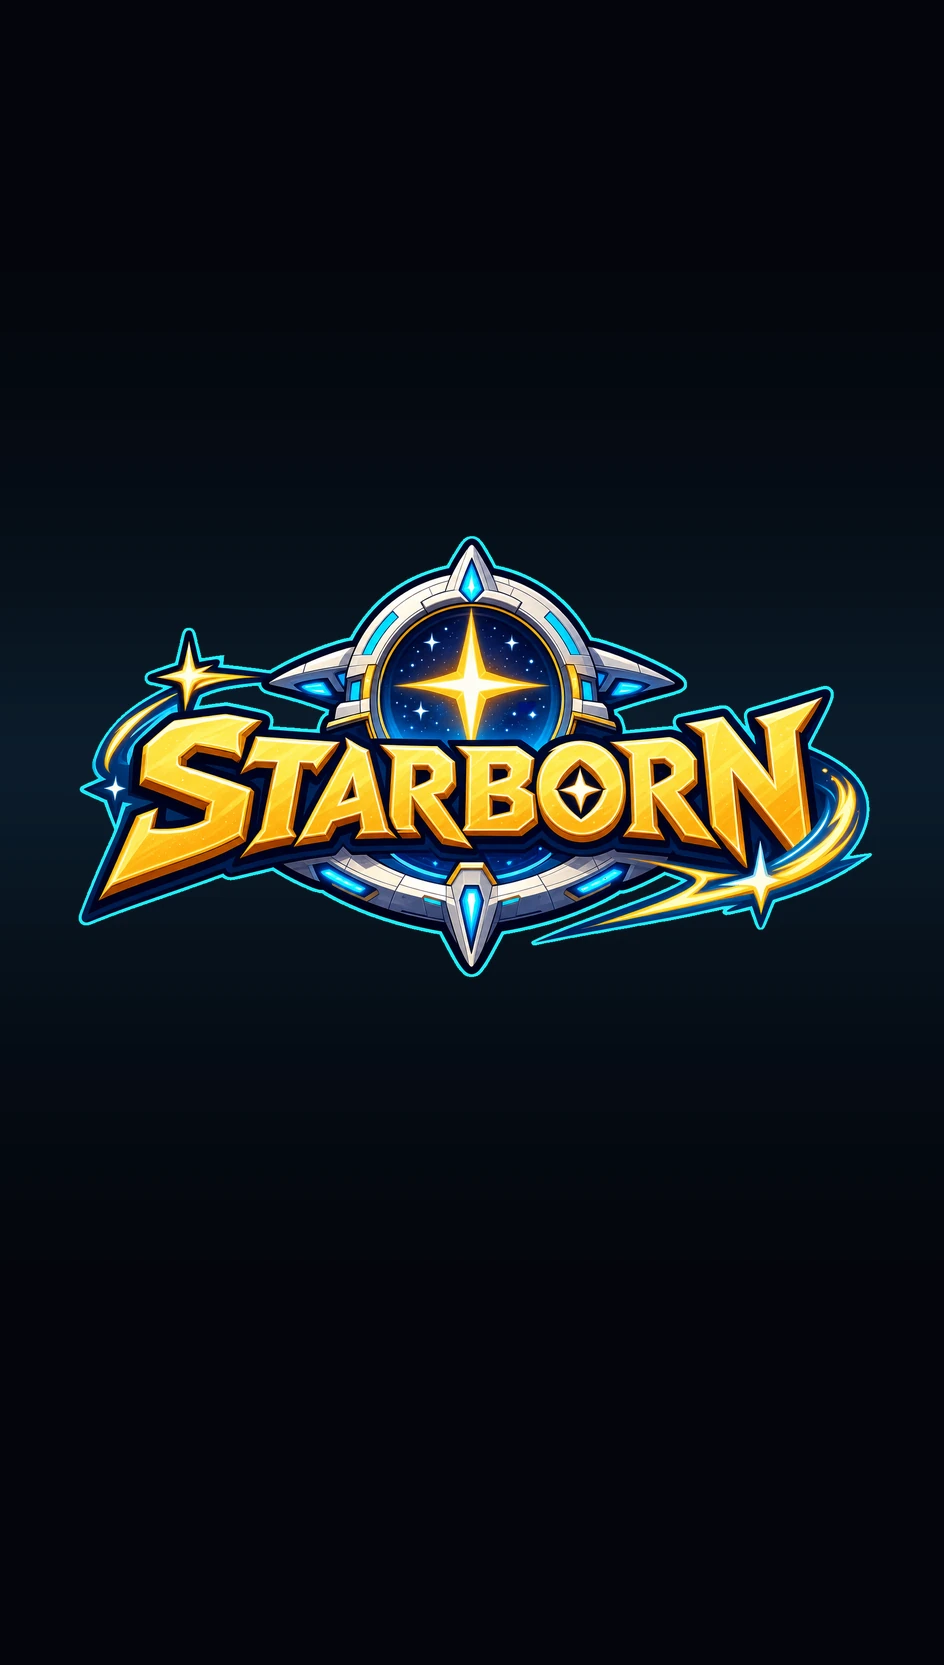
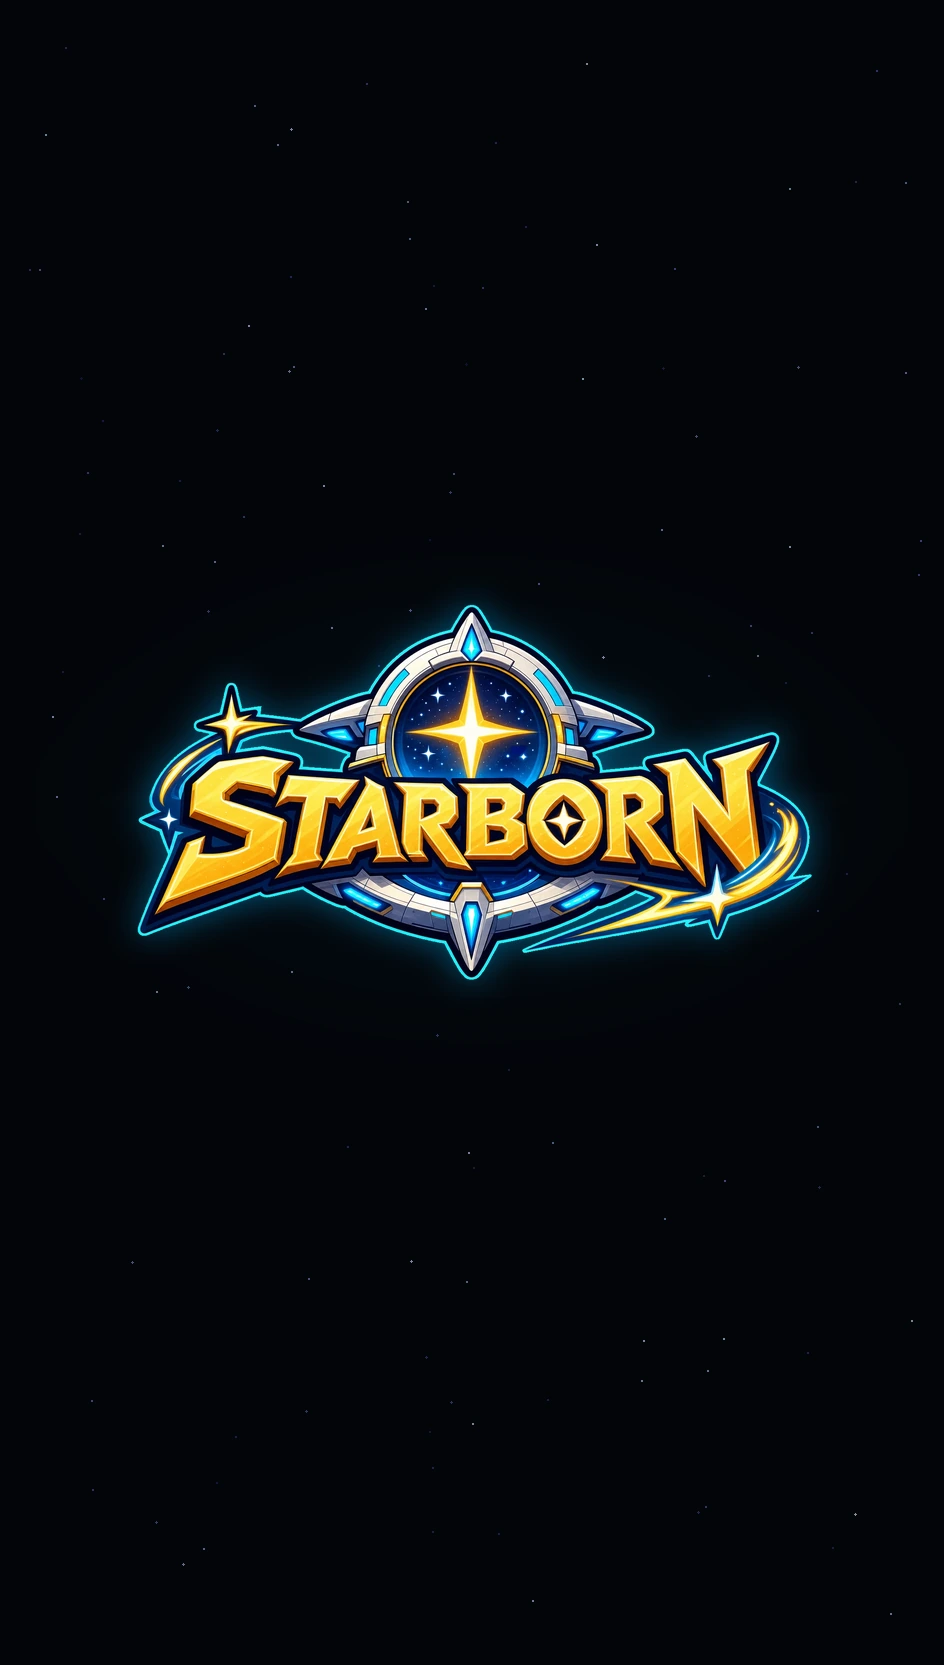
Bump to 1.1.42 for internal track: Cold open score continuity and title card celestial aura

Changed region(s): [[0.0, 0.3123, 1.0, 0.5934]]

diff --git a/app/src/main/java/com/example/starborn/feature/exploration/ui/ExplorationScreen.kt b/app/src/main/java/com/example/starborn/feature/exploration/ui/ExplorationScreen.kt
@@ -6930,20 +6930,22 @@ private fun IllustratedCinematicOverlay(
                     translationY = driftY
                 }
         )
-        Box(
-            modifier = Modifier
-                .fillMaxSize()
-                .background(
-                    Brush.verticalGradient(
-                        listOf(
-                            Color.Black.copy(alpha = 0.18f),
-                            Color.Transparent,
-                            Color.Black.copy(alpha = 0.10f),
-                            Color.Black.copy(alpha = 0.88f)
+        if (state.step.captionStyle != CinematicCaptionStyle.NONE) {
+            Box(
+                modifier = Modifier
+                    .fillMaxSize()
+                    .background(
+                        Brush.verticalGradient(
+                            listOf(
+                                Color.Black.copy(alpha = 0.18f),
+                                Color.Transparent,
+                                Color.Black.copy(alpha = 0.10f),
+                                Color.Black.copy(alpha = 0.88f)
+                            )
                         )
                     )
-                )
-        )
+            )
+        }
 
         if (state.step.captionStyle != CinematicCaptionStyle.NONE) {
             IllustratedCinematicCaption(

diff --git a/app/src/test/java/com/example/starborn/data/assets/IntroCinematicAssetIntegrityTest.kt b/app/src/test/java/com/example/starborn/data/assets/IntroCinematicAssetIntegrityTest.kt
@@ -71,11 +71,11 @@ class IntroCinematicAssetIntegrityTest {
             "The title card asset must exist in the asset pack: $titleCardPath",
             File("../world_assets/src/main/assets/$titleCardPath").isFile
         )
-        // The cold open runs on ambience and impacts alone; the theme entering on the
-        // wordmark is what makes the title land instead of playing as wallpaper. The
-        // bunk suppresses music while the light is off, so the room's audio hands the
-        // theme out again on its own.
-        assertEquals("music_title_theme", titleCard.musicCue)
+        // The cold open uses the custom continuous orchestral-electronic breach track
+        // (music_intro_breach) which plays from Beat 1 all the way through the title card,
+        // resolving into the 5-note Starborn motif before fading into the silent dark bunk.
+        assertEquals(null, titleCard.musicCue)
+        assertEquals("music_intro_breach", steps.first().musicCue)
         val titleFadeOut = titleCard.fadeOutSeconds ?: 0.0
         assertTrue(
             "The title card must dim into the bunk fade rather than cutting",

diff --git a/scripts/build_intro_title_card.py b/scripts/build_intro_title_card.py
@@ -5,58 +5,107 @@ The cold open cuts to black and lands on the title. Rather than generating
 typography (unreliable, and it would drift from the brand), this reuses the
 same wordmark the main menu uses: app/src/main/res/drawable-nodpi/title_logo_starborn.webp.
 
-The card is deliberately near-black rather than the busy main-menu background,
-so it reads as a hard cut out of the breach and into the title.
-
 Output: world_assets/.../images/cinematics/intro_title_card_v1.webp at 944x1665,
 matching the other intro stills.
 """
 
+import math
 from pathlib import Path
+import random
 
-from PIL import Image, ImageFilter
+from PIL import Image, ImageDraw, ImageFilter
 
 ROOT = Path(__file__).resolve().parent.parent
 LOGO = ROOT / "app/src/main/res/drawable-nodpi/title_logo_starborn.webp"
 OUT = ROOT / "world_assets/src/main/assets/images/cinematics/intro_title_card_v1.webp"
 
 W, H = 944, 1665
-LOGO_WIDTH_FRAC = 0.86      # logo width as a fraction of the card
-LOGO_CENTRE_FRAC = 0.46     # slightly above centre reads better than dead centre
+LOGO_WIDTH_FRAC = 0.73       # 73% width gives elegant cinematic golden-ratio margins
+LOGO_CENTRE_FRAC = 0.48      # Centered perfectly at the visual centroid of the logo
 
 
 def main() -> None:
-    card = Image.new("RGB", (W, H), (4, 6, 11))
+    # 1. Base dark cosmic background
+    bg = Image.new("RGB", (W, H), (3, 5, 9))
 
-    # Subtle cyan vertical falloff behind the wordmark so it does not sit on flat black.
-    glow = Image.new("RGB", (W, H), (4, 6, 11))
-    gpx = glow.load()
+    # Radial cosmic nebula aura
     cx, cy = W // 2, int(H * LOGO_CENTRE_FRAC)
-    for y in range(H):
-        d = abs(y - cy) / (H * 0.5)
-        f = max(0.0, 1.0 - d) ** 3
-        r = int(4 + 10 * f)
-        g = int(6 + 30 * f)
-        b = int(11 + 44 * f)
-        for x in range(W):
-            gpx[x, y] = (r, g, b)
-    glow = glow.filter(ImageFilter.GaussianBlur(40))
-    card = Image.blend(card, glow, 0.85)
+    nebula = Image.new("RGBA", (W, H), (0, 0, 0, 0))
+    ndraw = ImageDraw.Draw(nebula)
 
+    # Multi-layer radial glow
+    # Outer deep teal/cyan glow
+    for r in range(400, 50, -20):
+        alpha = int(35 * (1.0 - r / 400.0) ** 1.5)
+        ndraw.ellipse([cx - r * 1.2, cy - r * 0.7, cx + r * 1.2, cy + r * 0.7], fill=(0, 140, 220, alpha))
+
+    # Mid cyan resonance bloom
+    for r in range(220, 20, -15):
+        alpha = int(55 * (1.0 - r / 220.0) ** 2)
+        ndraw.ellipse([cx - r * 1.1, cy - r * 0.65, cx + r * 1.1, cy + r * 0.65], fill=(30, 200, 255, alpha))
+
+    # Inner bright core
+    for r in range(90, 5, -8):
+        alpha = int(75 * (1.0 - r / 90.0) ** 2)
+        ndraw.ellipse([cx - r, cy - r * 0.6, cx + r, cy + r * 0.6], fill=(160, 240, 255, alpha))
+
+    nebula = nebula.filter(ImageFilter.GaussianBlur(30))
+    bg.paste(Image.alpha_composite(Image.new("RGBA", (W, H), (3, 5, 9, 255)), nebula).convert("RGB"))
+
+    # Subtle cosmic starfield
+    rnd = random.Random(42)
+    star_layer = Image.new("RGBA", (W, H), (0, 0, 0, 0))
+    sdraw = ImageDraw.Draw(star_layer)
+    for _ in range(120):
+        sx = rnd.randint(20, W - 20)
+        sy = rnd.randint(40, H - 40)
+        dist = math.hypot(sx - cx, (sy - cy) * 1.5)
+        size = rnd.choice([1, 1, 1, 2])
+        brightness = rnd.randint(60, 200)
+        if dist < 180:
+            brightness = int(brightness * 0.3)
+        sdraw.ellipse([sx, sy, sx + size, sy + size], fill=(brightness, brightness + rnd.randint(0, 40), 255, int(brightness * 0.8)))
+
+    # Anamorphic horizontal streak through the star
+    streak = Image.new("RGBA", (W, H), (0, 0, 0, 0))
+    kdraw = ImageDraw.Draw(streak)
+    streak_w = int(W * 0.85)
+    streak_h = 4
+    kdraw.ellipse([cx - streak_w // 2, cy - streak_h // 2, cx + streak_w // 2, cy + streak_h // 2], fill=(120, 220, 255, 90))
+    streak = streak.filter(ImageFilter.GaussianBlur(8))
+
+    card = Image.alpha_composite(bg.convert("RGBA"), star_layer)
+    card = Image.alpha_composite(card, streak)
+
+    # 2. Resize and place Starborn Logo
     logo = Image.open(LOGO).convert("RGBA")
     target_w = int(W * LOGO_WIDTH_FRAC)
     scale = target_w / logo.width
-    logo = logo.resize((target_w, int(logo.height * scale)), Image.LANCZOS)
+    target_h = int(logo.height * scale)
+    logo = logo.resize((target_w, target_h), Image.LANCZOS)
 
-    x = (W - logo.width) // 2
-    y = int(H * LOGO_CENTRE_FRAC) - logo.height // 2
-    card.paste(logo, (x, y), logo)
+    # Soft logo outer glow / shadow for separation
+    shadow = Image.new("RGBA", (W, H), (0, 0, 0, 0))
+    lx = (W - target_w) // 2
+    ly = int(H * LOGO_CENTRE_FRAC) - target_h // 2
 
+    shadow.paste(logo, (lx, ly), logo)
+    shadow = shadow.filter(ImageFilter.GaussianBlur(16))
+    spx = shadow.load()
+    for y in range(H):
+        for x in range(W):
+            a = spx[x, y][3]
+            if a > 0:
+                spx[x, y] = (0, 180, 255, int(a * 0.45))
+
+    card = Image.alpha_composite(card, shadow)
+    card.paste(logo, (lx, ly), logo)
+
+    final_rgb = card.convert("RGB")
     OUT.parent.mkdir(parents=True, exist_ok=True)
-    # The asset pack ships WebP; emitting PNG here would orphan the cinematics.json path.
-    card.save(OUT, "WEBP", quality=90, method=6)
-    print(f"saved {OUT.relative_to(ROOT)} at {card.size[0]}x{card.size[1]}"
-          f" ({OUT.stat().st_size / 1048576:.2f} MB)")
+    final_rgb.save(OUT, "WEBP", quality=92, method=6)
+    print(f"saved {OUT.relative_to(ROOT)} at {final_rgb.size[0]}x{final_rgb.size[1]}"
+          f" ({OUT.stat().st_size / 1024:.1f} KB)")
 
 
 if __name__ == "__main__":
